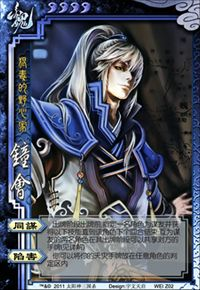
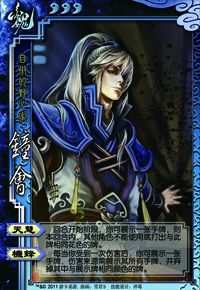
Change redzhonghui

diff --git a/src/package/shineway/red.cpp b/src/package/shineway/red.cpp
@@ -5,228 +5,72 @@
 #include "carditem.h"
 #include "room.h"
 
-TongmouCard::TongmouCard(){
-    target_fixed = true;
-}
-
-void TongmouCard::use(Room *room, ServerPlayer *source, const QList<ServerPlayer *> &targets) const{
-    ServerPlayer *tmp = NULL;
-    foreach(tmp, room->getOtherPlayers(source)){
-        if(tmp->getMark("xoxo") > 0)
-            break;
-    }
-    ServerPlayer *zhonghui, *gay;
-    if(source->hasSkill("tongmou")){
-        zhonghui = source;
-        gay = tmp;
-    }
-    else{
-        zhonghui = tmp;
-        gay = source;
-    }
-    if(!gay || !zhonghui) return;
-    QList<ServerPlayer *> gays;
-    gays << zhonghui << gay;
-    QStringList forbid_skills;
-    forbid_skills << "lianying" << "tuntian" << "shangshi" << "beifa"
-            << "weighing" << "liufang";
-    foreach(ServerPlayer *tmp, gays){
-        if(tmp->hasSkill("tuntian") && tmp == source)
-            continue;
-        if(tmp->hasSkill("juxiang") && tmp != source)
-            source->setFlags("sa_forbidden");
-        foreach(QString tmp2, forbid_skills){
-            if(tmp->hasSkill(tmp2)){
-                if(source->hasFlag("forct")){
-                    LogMessage log;
-                    log.type = "#Tongmou_forbidden";
-                    log.from = tmp;
-                    log.arg = "tongmou";
-                    log.arg2 = tmp2;
-                    room->sendLog(log);
-                    return;
-                }
-                source->setFlags("forct");
-            }
-        }
-    }
-
-    DummyCard *card1 = zhonghui->wholeHandCards();
-    DummyCard *card2 = gay->wholeHandCards();
-
-    if(card1){
-        room->moveCardTo(card1, gay, Player::Hand, false);
-        delete card1;
-    }
-    //room->getThread()->delay();
-    if(card2){
-        room->moveCardTo(card2, zhonghui, Player::Hand, false);
-        delete card2;
-    }
-    source->tag["flag"] = !source->tag.value("flag", true).toBool();
-}
-
-class TongmouViewAsSkill: public ZeroCardViewAsSkill{
+class Tianhui: public PhaseChangeSkill{
 public:
-    TongmouViewAsSkill():ZeroCardViewAsSkill("tongmouv"){
-    }
-    virtual const Card *viewAs() const{
-        return new TongmouCard;
-    }
-};
-
-class TongmouAsSkill: public ZeroCardViewAsSkill{
-public:
-    TongmouAsSkill():ZeroCardViewAsSkill("tongmou"){
-    }
-
-    virtual bool isEnabledAtPlay(const Player *player) const{
-        return player->hasSkill(objectName());
-    }
-
-    virtual const Card *viewAs() const{
-        return new TongmouCard;
-    }
-};
-
-class Tongmou: public PhaseChangeSkill{
-public:
-    Tongmou():PhaseChangeSkill("tongmou"){
-        view_as_skill = new TongmouAsSkill;
-    }
-
-    virtual bool triggerable(const ServerPlayer *target) const{
-        return true;
+    Tianhui():PhaseChangeSkill("tianhui"){
     }
 
     virtual bool onPhaseChange(ServerPlayer *player) const{
         Room *room = player->getRoom();
-        ServerPlayer *zhonghui = room->findPlayerBySkillName(objectName());
-        if(!zhonghui) return false;
-        if(player != zhonghui && player->getMark("xoxo") < 1)
-            return false;
-
-        if(player->getMark("xoxo") > 0 && player->getPhase() == Player::Discard){
-            ServerPlayer *gay = NULL;
-            foreach(gay, room->getOtherPlayers(player)){
-                if(gay->getMark("xoxo") > 0)
-                    break;
-            }
-            if(gay && !player->tag.value("flag", true).toBool()){
-                DummyCard *card1 = player->wholeHandCards();
-                DummyCard *card2 = gay->wholeHandCards();
-
-                if(card1){
-                    room->moveCardTo(card1, gay, Player::Hand, false);
-                    delete card1;
+        if(player->getPhase() == Player::Start && player->askForSkillInvoke(objectName())){
+            const Card *card = room->askForCardShow(player, player, objectName());
+            if(card){
+                QString suit = ".|" + card->getSuitString() + "|.|hand";
+                foreach(ServerPlayer *tmp, room->getOtherPlayers(player)){
+                    tmp->jilei(suit);
+                    tmp->invoke("jilei", suit);
                 }
-                //room->getThread()->delay();
-                if(card2){
-                    room->moveCardTo(card2, player, Player::Hand, false);
-                    delete card2;
+                LogMessage log;
+                log.type = "#Tianhui";
+                log.from = player;
+                log.arg = card->getSuitString();
+                room->sendLog(log);
+            }
+        }
+        else if(player->getPhase() == Player::NotActive){
+            foreach(ServerPlayer *tmp, room->getOtherPlayers(player)){
+                tmp->jilei(".");
+                tmp->invoke("jilei", ".");
+            }
+        }
+        return false;
+    }
+};
+
+class Jifeng:public MasochismSkill{
+public:
+    Jifeng():MasochismSkill("jifeng"){
+    }
+
+    virtual void onDamaged(ServerPlayer *player, const DamageStruct &damage) const{
+        Room *room = player->getRoom();
+        if(!damage.from || damage.from->isKongcheng() || !player->askForSkillInvoke(objectName()))
+            return;
+        const Card *card = room->askForCardShow(player, player, objectName());
+        if(card){
+            LogMessage log;
+            log.type = "#Jifeng";
+            log.from = damage.from;
+            log.arg = objectName();
+            log.arg2 = card->isRed() ? "jifengr" : "jifengb";
+            room->sendLog(log);
+
+            QList<int> cardes = damage.from->handCards();
+            room->fillAG(cardes, player);
+            room->askForAG(player, cardes, true, objectName());
+            QList<const Card *> cards = damage.from->getHandcards();
+            player->invoke("clearAG");
+            foreach(const Card *c, cards){
+                if(c->isRed() != card->isRed()){
+                    room->showCard(damage.from, card->getEffectiveId());
+                    room->getThread()->delay();
+                }else{
+                    room->showCard(damage.from, card->getEffectiveId());
+                    room->getThread()->delay();
+                    room->throwCard(c);
                 }
             }
         }
-        if(player == zhonghui && player->getPhase() == Player::Play){
-            if(!player->askForSkillInvoke(objectName())){
-                zhonghui->setMark("xoxo",0);
-                return false;
-            }
-            QList<ServerPlayer *> players;
-            foreach(ServerPlayer *p, room->getOtherPlayers(zhonghui)){
-                players << p;
-            }
-            ServerPlayer *gay = room->askForPlayerChosen(zhonghui, players, "tongmou_tie");
-            if(!gay) return false;
-            player->tag["flag"] = true;
-            gay->addMark("xoxo");
-            zhonghui->addMark("xoxo");
-
-            room->attachSkillToPlayer(gay, "tongmouv");
-        }
-        else if(player != zhonghui && player->getMark("xoxo") > 0 && player->getPhase() == Player::Play){
-            player->tag["flag"] = true;
-        }
-        else if(player != zhonghui && player->getMark("xoxo") > 0 && player->getPhase() == Player::Finish){
-            player->setMark("xoxo", 0);
-            zhonghui->setMark("xoxo", 0);
-            room->detachSkillFromPlayer(player, "tongmouv");
-        }
-        return false;
-    }
-};
-
-class TongmouForbidden: public TriggerSkill{
-public:
-    TongmouForbidden():TriggerSkill("#tmf"){
-        events << CardUsed;
-    }
-
-    virtual bool triggerable(const ServerPlayer *target) const{
-        return target->getMark("xoxo") > 0;
-    }
-
-    virtual bool trigger(TriggerEvent, ServerPlayer *zhonghui, QVariant &dat) const{
-        Room *room = zhonghui->getRoom();
-        CardUseStruct use = dat.value<CardUseStruct>();
-        if(use.from && use.from == zhonghui && use.from->hasFlag("sa_forbidden")
-            && use.card->inherits("SavageAssault")){
-            room->throwCard(use.card);
-            return true;
-        }
-        return false;
-    }
-};
-
-class TongmouClear: public TriggerSkill{
-public:
-    TongmouClear():TriggerSkill("#tmc"){
-        events << Death;
-    }
-
-    virtual bool triggerable(const ServerPlayer *target) const{
-        return target->hasSkill("tongmou");
-    }
-
-    virtual bool trigger(TriggerEvent, ServerPlayer *zhonghui, QVariant &) const{
-        Room *room = zhonghui->getRoom();
-        foreach(ServerPlayer *player, room->getAllPlayers()){
-            player->setMark("xoxo", 0);
-            room->detachSkillFromPlayer(player, "tongmouv");
-        }
-        return false;
-    }
-};
-
-XianhaiCard::XianhaiCard(){
-}
-
-bool XianhaiCard::targetFilter(const QList<const Player *> &targets, const Player *to_select, const Player *Self) const{
-    if(to_select->getJudgingArea().contains(Sanguosha->getCard(this->getSubcards().first())))
-        return false;
-    return targets.isEmpty();
-}
-
-void XianhaiCard::onEffect(const CardEffectStruct &effect) const{
-    effect.from->getRoom()->moveCardTo(Sanguosha->getCard(this->getSubcards().first()), effect.to, Player::Judging);
-    effect.from->drawCards(1);
-}
-
-class Xianhai: public OneCardViewAsSkill{
-public:
-    Xianhai():OneCardViewAsSkill("xianhai"){
-
-    }
-
-    virtual bool viewFilter(const CardItem *to_select) const{
-        return to_select->getCard()->inherits("Disaster");
-    }
-
-    virtual const Card *viewAs(CardItem *card_item) const{
-        XianhaiCard *card = new XianhaiCard;
-        card->addSubcard(card_item->getCard()->getId());
-
-        return card;
     }
 };
 
@@ -1251,14 +1095,9 @@ public:
 RedPackage::RedPackage()
     :Package("red")
 {
-    General *redzhonghui = new General(this, "redzhonghui", "wei", 4, true, true);
-    redzhonghui->addSkill(new Tongmou);
-    redzhonghui->addSkill(new TongmouClear);
-    redzhonghui->addSkill(new TongmouForbidden);
-    redzhonghui->addSkill(new Xianhai);
-    related_skills.insertMulti("tongmou", "#tmc");
-    related_skills.insertMulti("tongmou", "#tmf");
-    skills << new TongmouViewAsSkill;
+    General *redzhonghui = new General(this, "redzhonghui", "wei", 3);
+    redzhonghui->addSkill(new Tianhui);
+    redzhonghui->addSkill(new Jifeng);
 
     General *redxunyou = new General(this, "redxunyou", "wei", 3);
     redxunyou->addSkill(new Baichu);
@@ -1307,8 +1146,6 @@ RedPackage::RedPackage()
     uchihaitachi->addSkill(new MarkAssignSkill("@susa", 1));
     related_skills.insertMulti("Susa", "#@susa-1");
 
-    addMetaObject<TongmouCard>();
-    addMetaObject<XianhaiCard>();
     addMetaObject<BaichuCard>();
     addMetaObject<TongluCard>();
     addMetaObject<XiefangCard>();

diff --git a/src/package/shineway/red.h b/src/package/shineway/red.h
@@ -5,83 +5,6 @@
 #include "card.h"
 #include "standard.h"
 
-/*
-class Jiehuo: public TriggerSkill{
-public:
-    Jiehuo():TriggerSkill("jiehuo"){
-        events << CardUsed << CardEffected;
-    }
-
-    virtual bool triggerable(const ServerPlayer *target) const{
-        return true;
-    }
-
-    virtual bool trigger(TriggerEvent event, ServerPlayer *player, QVariant &data) const{
-        Room *room = player->getRoom();
-        ServerPlayer *shuijing = room->findPlayerBySkillName(objectName());
-        if(event == CardEffected){
-            CardEffectStruct effect = data.value<CardEffectStruct>();
-
-            if(!(effect.multiple &&
-                (effect.card->inherits("GlobalEffect") ||
-                 effect.card->inherits("AOE"))))
-                return false;
-            foreach(ServerPlayer *p,room->getAlivePlayers())
-                if(p->getMark("jiehuo") > 0)
-                    return false;
-            if(shuijing->getMark("jiehuoover")<1){
-                ServerPlayer *target = room->askForPlayerChosen(shuijing, room->getAlivePlayers(), objectName());
-                if(target){
-                    target->addMark("jiehuo");
-                    shuijing->addMark("jiehuoover");
-                }
-            }
-            else if(shuijing->getMark("jiehuoover")>0 && player->getMark("jiehuo")>0){
-                player->loseAllMarks("juehuo");
-                shuijing->loseAllMarks("jiehuoover");
-                return true;
-            }
-        }
-        else if(event == CardUsed){
-            CardUseStruct effect = data.value<CardUseStruct>();
-
-            if(effect.card->inherits("TrickCard") &&
-               !effect.card->inherits("Collateral") &&
-               effect.to.contains(shuijing) && effect.to.length() > 1){
-                Room *room = player->getRoom();
-                if(room->askForSkillInvoke(shuijing, objectName(), data)){
-                    ServerPlayer *target = room->askForPlayerChosen(shuijing, effect.to, objectName());
-                    if(target)
-                        effect.to.removeOne(target);
-                    data = QVariant::fromValue(effect);
-                    return false;
-                }
-            }
-        }
-        return false;
-    }
-};
-*/
-
-class TongmouCard: public SkillCard{
-    Q_OBJECT
-
-public:
-    Q_INVOKABLE TongmouCard();
-
-    virtual void use(Room *room, ServerPlayer *source, const QList<ServerPlayer *> &targets) const;
-};
-
-class XianhaiCard: public SkillCard{
-    Q_OBJECT
-
-public:
-    Q_INVOKABLE XianhaiCard();
-
-    virtual bool targetFilter(const QList<const Player *> &targets, const Player *to_select, const Player *Self) const;
-    virtual void onEffect(const CardEffectStruct &effect) const;
-};
-
 class BaichuCard: public SkillCard{
     Q_OBJECT
 
